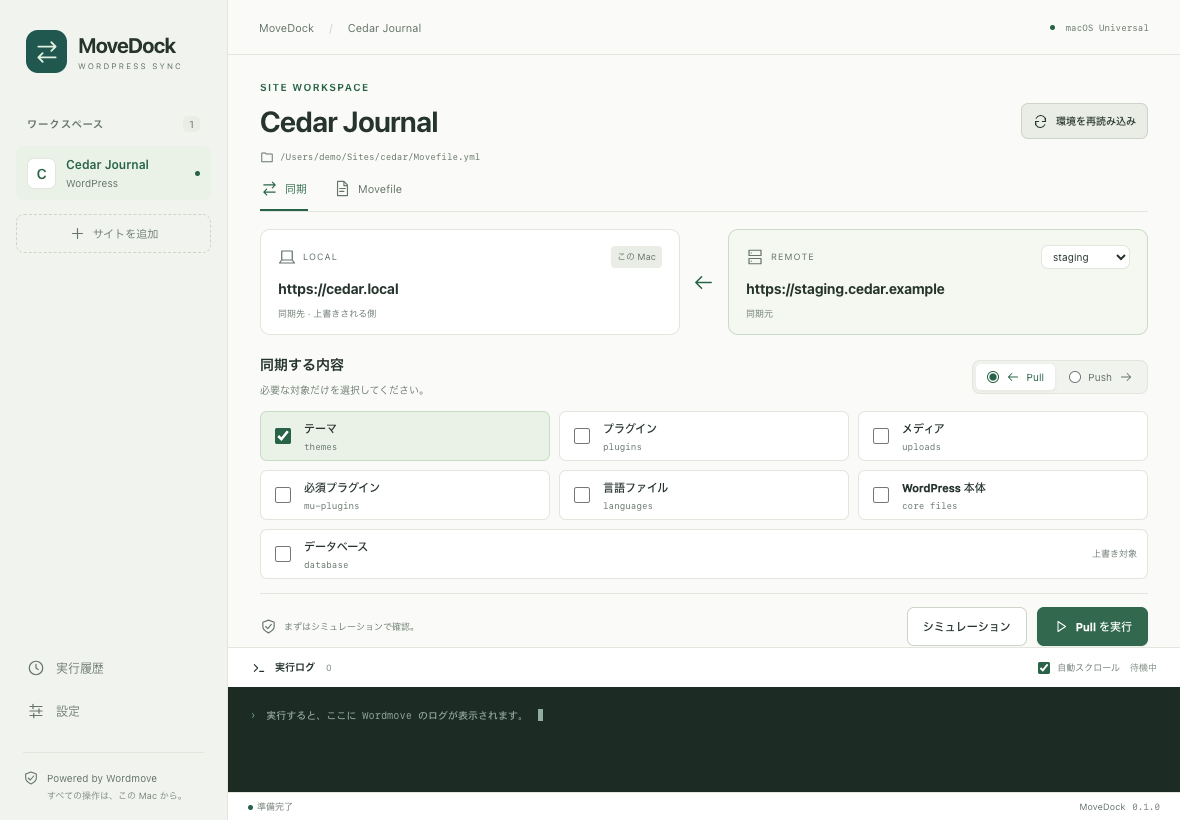
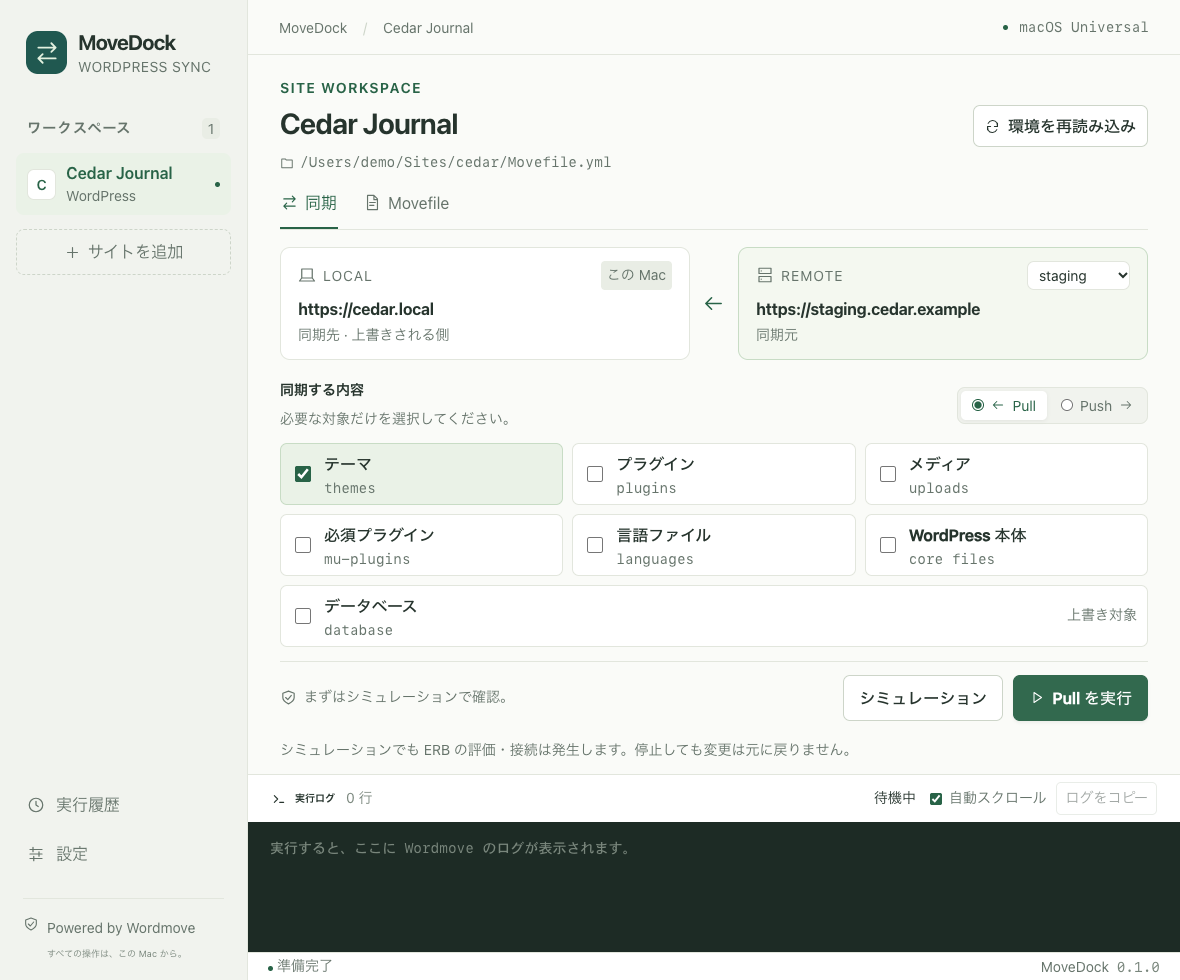
docs: prepare bilingual README and initial GitHub release

diff --git a/docs/releases/v0.1.0.md b/docs/releases/v0.1.0.md
@@ -1,0 +1,57 @@
+## 日本語
+
+MoveDock の初回リリースです。Wordmove CLI を Rust / Tauri 2 / Vue 3 のデスクトップ画面から操作できます。
+
+**現在のアプリ UI は日本語です。多言語対応は次のバージョンで予定しています。**
+
+### 主な機能
+
+- Movefile で複数サイトを登録し、リモート環境を選択
+- Push / Pull、同期対象の個別選択、実行前の確認とシミュレーション
+- 実行ログの表示・選択・コピー、明示的な完了表示、実行履歴
+- 大量ログをまとめて描画し、最新 2000 行を保持
+- Movefile の作成・編集と外部変更の検出
+- Ruby / Bundler / Wordmove の自動設定と実行環境の確認
+- ライト・ダーク・システムテーマ、読みやすさを調整した文字サイズ
+
+### ダウンロードと必要な環境
+
+`MoveDock_0.1.0_universal.dmg` を開き、`MoveDock.app` をアプリケーションフォルダへコピーしてください。macOS 11 以降の Intel / Apple Silicon 共通です。`SHA256SUMS.txt` に DMG の SHA-256 を記載しています。
+
+Ruby / Wordmove と、同期に必要な SSH・rsync・WP-CLI・PHP・MySQL クライアントなどは別途必要です。同梱されていません。[README の導入手順](https://github.com/annrie/MoveDock/blob/v0.1.0/README.md#日本語)を参照してください。検証済みの Wordmove フォークは [`978860b`](https://github.com/annrie/wordmove/commit/978860b302b3de0db382ac54eba6be4c711e16d7) で、Ed25519 鍵・rsync の修正を含みます。古い `v5.3.0.pre.1` タグにはこの 2 件の修正が含まれていません。
+
+### 既知の問題・検証範囲
+
+- 初回の環境読み込みが一度タイムアウトし、再試行で成功する事象が残っています。原因は調査中です。直近の再起動・負荷テストでは再現せず、約 4〜16 秒で成功しました。
+- ad-hoc 署名を使用しています。Developer ID 署名・公証は未設定のため、macOS で起動時のセキュリティ確認が必要になる場合があります。
+- Universal バイナリの Intel / Apple Silicon 両アーキテクチャと署名を検証しています。実機での起動検証は Intel Mac で実施し、別の Apple Silicon 実機では未確認です。
+- 15 件のフロントエンドテスト、型チェック、本番ビルド、実アプリの環境読み込み・シミュレーションを確認済みです。同期前にバックアップを取り、まずステージング環境で確認してください。
+
+## English
+
+The first release of MoveDock brings a Rust / Tauri 2 / Vue 3 desktop interface to the Wordmove CLI.
+
+**The current app UI is in Japanese. Multilingual UI support is planned for the next version.**
+
+### Features
+
+- Register multiple sites from Movefiles and select remote environments
+- Push / Pull, individual sync targets, confirmation and simulation before syncing
+- View, select and copy logs, with explicit completion status and run history
+- Batch high-volume log rendering and retain the latest 2,000 lines
+- Create and edit Movefiles, detecting external changes
+- Automatic Ruby / Bundler / Wordmove configuration and runtime checks
+- Light, dark and system themes, with improved text sizing
+
+### Download and requirements
+
+Open `MoveDock_0.1.0_universal.dmg` and copy `MoveDock.app` to your Applications folder. The same app supports Intel and Apple Silicon on macOS 11 or later. `SHA256SUMS.txt` contains the DMG's SHA-256 checksum.
+
+Ruby, Wordmove and tools required by your sync method—such as SSH, rsync, WP-CLI, PHP and MySQL clients—must be installed separately. They are not bundled. See the [README setup guide](https://github.com/annrie/MoveDock/blob/v0.1.0/README.md#english). The tested Wordmove fork revision is [`978860b`](https://github.com/annrie/wordmove/commit/978860b302b3de0db382ac54eba6be4c711e16d7), which includes the Ed25519 key and rsync fixes. The older `v5.3.0.pre.1` tag does not include these two fixes.
+
+### Known issues and verification
+
+- An intermittent timeout on the first environment load remains unresolved; retrying has succeeded. The cause is under investigation. Recent restart and load tests did not reproduce it and completed in approximately 4–16 seconds.
+- The app uses an ad-hoc signature. Developer ID signing and notarization are not configured, so macOS may require a security confirmation when opening it.
+- Both Intel and Apple Silicon architectures and the app signature have been verified. Runtime checks were performed on an Intel Mac; a separate Apple Silicon Mac has not been tested.
+- Verification includes 15 frontend tests, type checks, a production build, and environment loading and simulation in the native app. Back up your data and test in staging before syncing.

diff --git a/CHANGELOG.md b/CHANGELOG.md
@@ -1,0 +1,20 @@
+# 変更履歴 / Changelog
+
+
+## v0.1.0 — 2026-09-23
+
+[リリース説明 / Release notes](docs/releases/v0.1.0.md)
+
+
+### 🚀 新機能 / Features
+
+- Wordmove のデスクトップアプリ MoveDock を追加 / Add MoveDock Wordmove desktop app ([972d5d1](https://github.com/annrie/MoveDock/commit/972d5d1))
+- Wordmove の自動設定と文字の読みやすさを改善 / Auto-configure Wordmove and improve text readability ([b03a781](https://github.com/annrie/MoveDock/commit/b03a781))
+
+### 🐛 バグ修正 / Bug fixes
+
+- 見出し以外の文字サイズを拡大 / Increase non-heading text size by one point ([9ea925d](https://github.com/annrie/MoveDock/commit/9ea925d))
+- 環境読み込みの起動待ち上限を延長（初回タイムアウトは調査中） / Allow longer Wordmove startup during environment loading (initial timeout still under investigation) ([e7dbe13](https://github.com/annrie/MoveDock/commit/e7dbe13))
+- ログ描画の停止を防止し、実行結果のコピーを追加 / Prevent log rendering stalls and add copyable run results ([5519560](https://github.com/annrie/MoveDock/commit/5519560))
+- 初期画面の見出しとサイドバー注記の文字を調整 / Balance onboarding headings and keep sidebar note on one line ([09452bf](https://github.com/annrie/MoveDock/commit/09452bf))
+
